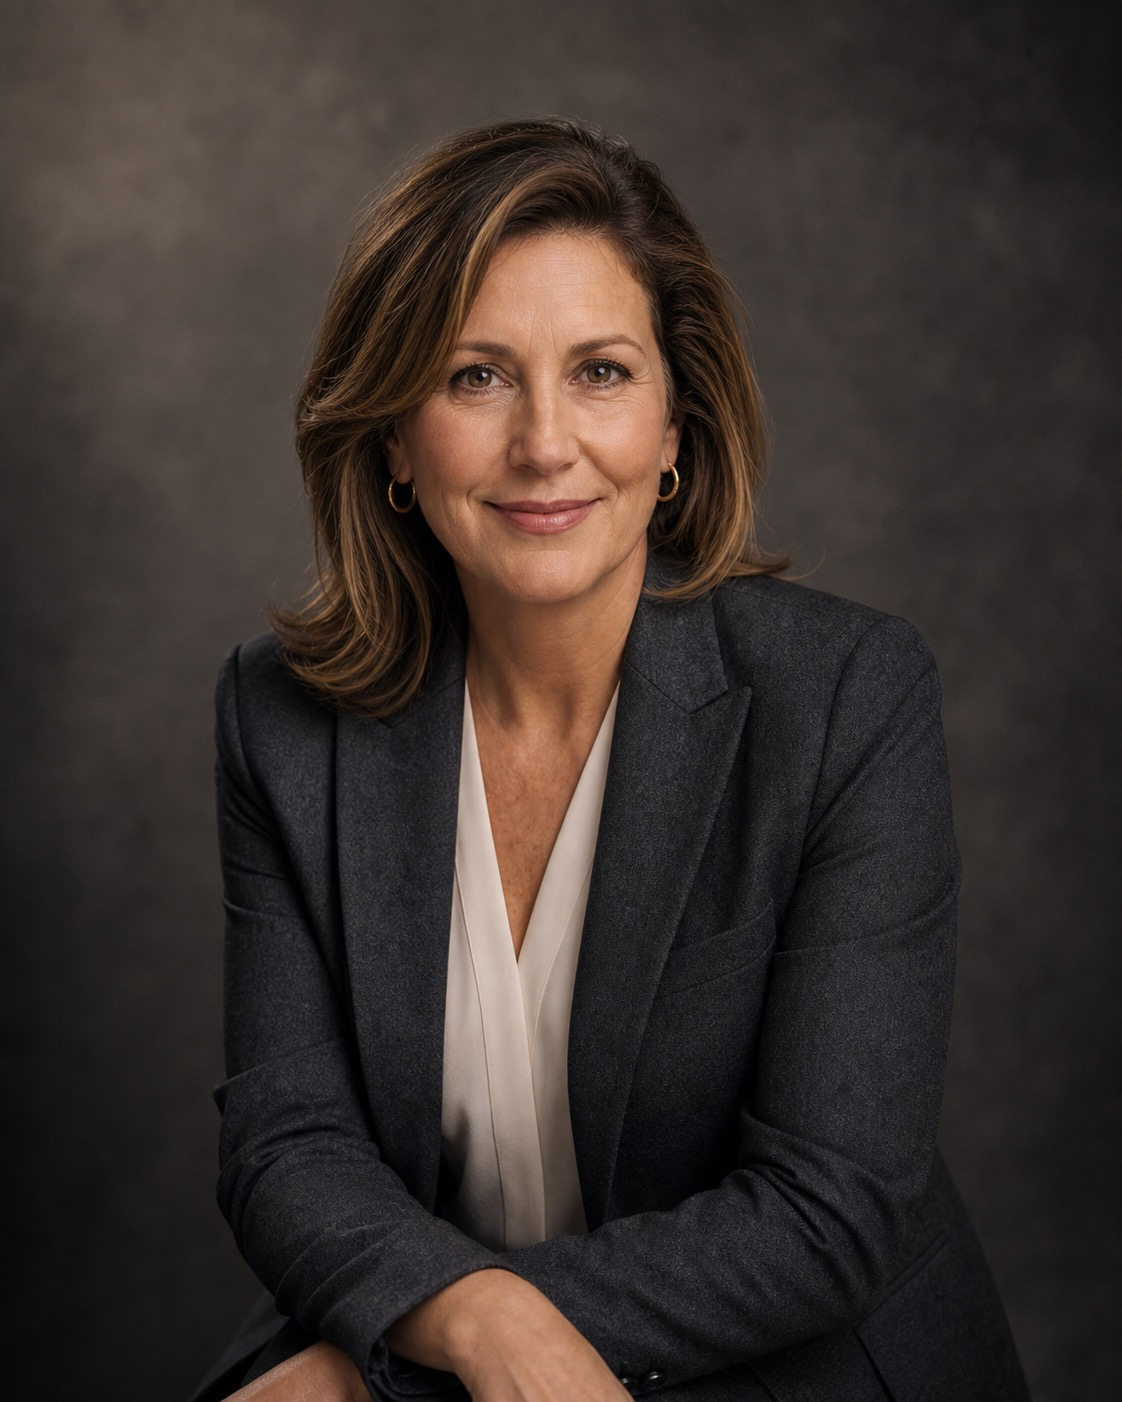
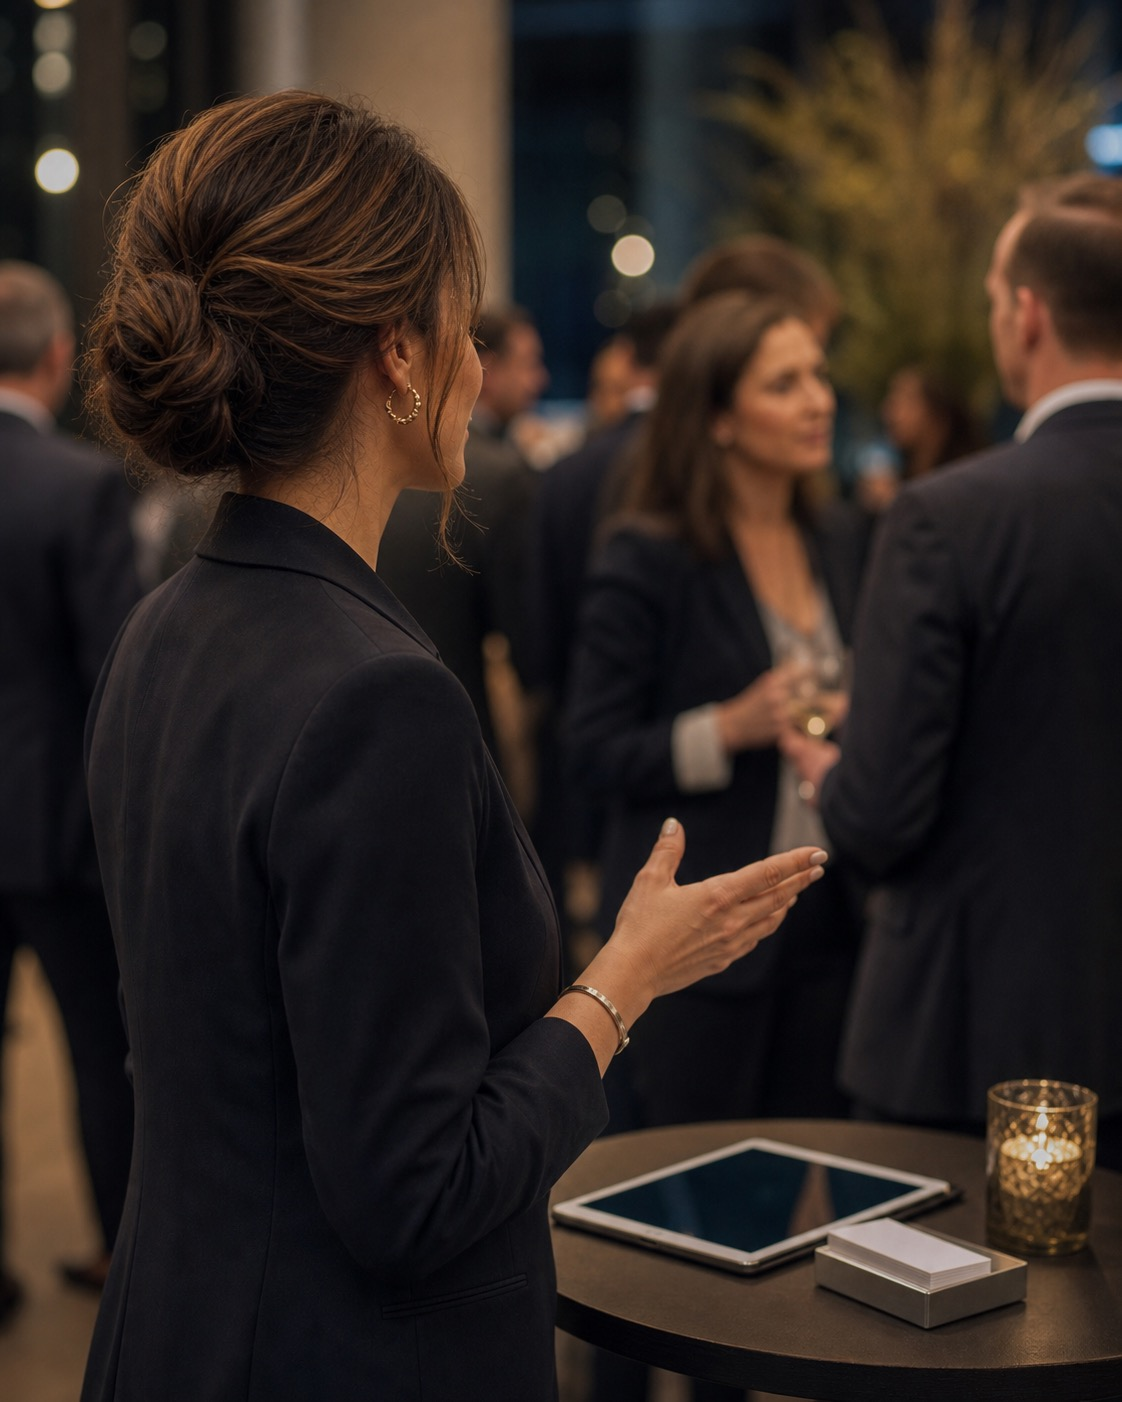
Codex updates: content, styles, assets

diff --git a/styles.css b/styles.css
@@ -383,3 +383,70 @@ section { padding: 5rem 2rem; }
   .hero__actions { flex-direction: column; align-items: flex-start; }
   .btn { width: 100%; text-align: center; }
 }
+
+/* --- Mobile overflow hardening --- */
+html,
+body {
+  max-width: 100%;
+  overflow-x: clip;
+}
+
+body {
+  overscroll-behavior-x: none;
+}
+
+img,
+svg,
+video,
+canvas {
+  max-width: 100%;
+  height: auto;
+}
+
+main,
+section,
+header,
+footer,
+nav,
+form,
+fieldset,
+[class*="__inner"],
+[class*="__grid"],
+[class*="__row"],
+[class*="__cols"],
+[class*="__card"],
+[class*="__item"] {
+  min-width: 0;
+}
+
+input,
+textarea,
+select,
+button {
+  max-width: 100%;
+  min-width: 0;
+}
+
+p,
+h1,
+h2,
+h3,
+h4,
+h5,
+h6,
+a,
+li,
+span {
+  overflow-wrap: anywhere;
+}
+
+@media (max-width: 480px) {
+  .btn,
+  .btn-primary,
+  .btn-ghost,
+  [class*="btn"],
+  [class*="button"] {
+    max-width: 100%;
+    white-space: normal;
+  }
+}

diff --git a/index.html b/index.html
@@ -67,7 +67,7 @@
           "name": "How do I make an offer for wandahalpert.net?",
           "acceptedAnswer": {
             "@type": "Answer",
-            "text": "Use the contact form on this page or email [email redacted]. Share your name, intended use, and any offer you have in mind. All inquiries are confidential and answered within one business day."
+            "text": "Use the contact form on this page. Share your name, intended use, and any offer you have in mind. All inquiries are confidential and answered within one business day."
           }
         },
         {
@@ -118,7 +118,7 @@
         wandahalpert.net is the professional network address for the Wanda Halpert name. Originally associated with networks and technical infrastructure, .net is today used by professionals as a secondary brand domain, a redirect hub, or a standalone presence that completes full-name TLD ownership alongside .com and .ca.
       </p>
       <div class="hero__actions">
-        <a href="mailto:[email redacted]?subject=Offer%20for%20wandahalpert.net&body=Hi%2C%20I%27m%20interested%20in%20acquiring%20wandahalpert.net.%20My%20offer%20is%3A" class="btn btn--primary">Make an Offer</a>
+        <a href="#acquire" class="btn btn--primary">Make an Offer</a>
         <a href="#value" class="btn btn--ghost">Why This Domain</a>
       </div>
     </div>
@@ -151,7 +151,7 @@
         <div class="value__card">
           <div class="value__icon">↗️</div>
           <h3>Redirect and Recovery</h3>
-          <p>Many professionals use .net as a seamless redirect to their primary domain, as a fallback email namespace, or as a mirror site. It captures traffic from visitors who type the wrong extension and sends them exactly where you want them.</p>
+          <p>Many professionals use .net as a seamless redirect to their primary domain, as a fallback digital namespace, or as a mirror site. It captures traffic from visitors who type the wrong extension and sends them exactly where you want them.</p>
         </div>
       </div>
     </div>
@@ -190,21 +190,20 @@
       <p class="section-lead">
         wandahalpert.net is ready for transfer. Whether you are purchasing it alone or as part of the full portfolio, get in touch and we will respond within one business day.
       </p>
-      <form class="acquire__form" action="mailto:[email redacted]" method="post" enctype="text/plain">
+      <form class="acquire__form" action="#" method="post" enctype="text/plain">
         <div class="form__row">
           <label for="name">Your Name</label>
           <input type="text" id="name" name="Name" placeholder="Wanda Halpert" required />
         </div>
         <div class="form__row">
-          <label for="email">Email Address</label>
-          <input type="email" id="email" name="Email" placeholder="[email redacted]" required />
+          <label for="email">Reply contact</label>
+          <input type="email" id="email" name="Email" placeholder="Where should we reply?" required />
         </div>
         <div class="form__row">
           <label for="message">Message</label>
           <textarea id="message" name="Message" placeholder="I'm interested in wandahalpert.net&#10;as part of my full-name TLD portfolio&#8230;" required></textarea>
         </div>
         <button type="submit" class="acquire__submit">Send Inquiry</button>
-        <p class="acquire__note">Or email directly: <a href="mailto:[email redacted]" style="color:rgba(255,255,255,0.75);text-decoration:underline;">[email redacted]</a></p>
       </form>
     </div>
   </section>